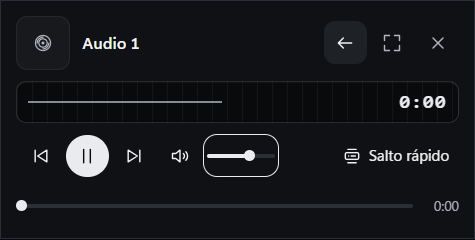
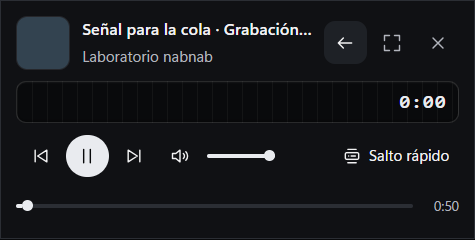
Fix floating player restore

diff --git a/src/main.ts b/src/main.ts
@@ -159,7 +159,7 @@ const audioPlayer=createAudioPlayer({
   item: id => snapshot.library.find(item => item.id === id),
   command, render: renderCurrent, refresh, showError, t,
   fullscreen: enabled => getCurrentWindow().setFullscreen(enabled),
-  miniWindow: desktop ? action => command("playback_mini_window", {action}) : undefined,
+  miniWindow: desktop ? (action,onlyWhenMinimized) => command("playback_mini_window", {action,onlyWhenMinimized}) : undefined,
   desktopPlayback: desktop ? available => {
     if (available === desktopPlaybackAvailable) return;
     desktopPlaybackAvailable = available;
@@ -945,10 +945,10 @@ if(desktop){
   required('#close').addEventListener('click',()=>void Promise.resolve(audioPlayer.persist()).then(()=>nativeWindow.close()).catch(showError));
   const updateMaximize=async()=>{const maximized=await nativeWindow.isMaximized();const button=required('#maximize');button.dataset.maximized=String(maximized);const label=maximized?t("Restaurar", "Restore"):t("Maximizar", "Maximize");button.setAttribute('aria-label',label);button.title=label;};
   try{
-    await listen('playback-mini-restored',audioPlayer.nativeMiniRestored);
+    await listen<boolean>('playback-mini-restored',({payload})=>audioPlayer.nativeMiniRestored(payload),{target:{kind:"Webview",label:"main"}});
     await listen('playback-mini-open',audioPlayer.openFloatingMini,{target:{kind:"Webview",label:"main"}});
     await listen<WheelAction>('quick-skip-action',({payload})=>audioPlayer.wheelAction(payload),{target:{kind:"Webview",label:"main"}});
-    await nativeWindow.onResized(async()=>{if(await nativeWindow.isMinimized())audioPlayer.detachMini();await updateMaximize();});
+    await nativeWindow.onResized(async()=>{if(await nativeWindow.isMinimized())audioPlayer.detachMini(true);await updateMaximize();});
     await updateMaximize();
     await nativeWindow.onDragDropEvent(event=>{if(event.payload.type==='drop')void receivePaths(event.payload.paths).catch(showError);else required('#drop-indicator').hidden=event.payload.type!=='enter'&&event.payload.type!=='over';});
     await listen<CaptureStatus>('capture-update',({payload})=>{const previous=captureStatus?.phase;screenCapture.acceptStatus(payload);if(page==='tools'&&localToolModule==='screenCapture'&&(captureIsActive(payload)||previous!==payload.phase))renderCurrent();if(previous!==payload.phase&&(payload.phase==='interrupted'||payload.phase==='error')){notify(payload.readyCapture?t('La captura se interrumpió. Revisa el archivo parcial en Captura.','Capture was interrupted. Review the partial file in Capture.'):t('No se pudo continuar la captura. Revisa Captura.','Capture could not continue. Review Capture.'),'error',payload.reason??'');if(page==='tools'&&localToolModule==='screenCapture')void screenCapture.open().catch(showError);}});

diff --git a/src/audio-player.ts b/src/audio-player.ts
@@ -27,7 +27,7 @@ interface Hooks {
   windowVisible(): Promise<boolean>;
   refresh(): Promise<void>;
   fullscreen(enabled: boolean): Promise<void>;
-  miniWindow?(action: "detach-audio" | "detach-video" | "restore" | "focus" | "drag" | "resize-audio" | "resize-video"): Promise<void>;
+  miniWindow?(action: "detach-audio" | "detach-video" | "restore" | "focus" | "drag" | "resize-audio" | "resize-video", onlyWhenMinimized?: boolean): Promise<boolean>;
   desktopPlayback?(available: boolean): void;
   desktopWheel?(session: WheelSession | null): void;
   convert(id: string): void;
@@ -210,14 +210,16 @@ export function createAudioPlayer(hooks: Hooks) {
     finally { changingWindow = false; }
   }
 
-  function detachMini(): boolean {
+  function detachMini(onlyWhenMinimized = false): boolean {
     const item = current();
     if (!mini?.active() || !isPlayable(item) || !hooks.miniWindow) return false;
     if (changingWindow || detached) return true;
     changingWindow = true;
     trackWheel?.dismiss();
     setDetached(true);
-    void hooks.miniWindow(item.kind === "video" ? "detach-video" : "detach-audio").catch(error => {
+    void hooks.miniWindow(item.kind === "video" ? "detach-video" : "detach-audio", onlyWhenMinimized).then(moved => {
+      if (moved === false) setDetached(false);
+    }).catch(error => {
       setDetached(false);
       hooks.showError(error);
     }).finally(() => { changingWindow = false; });
@@ -1040,7 +1042,8 @@ export function createAudioPlayer(hooks: Hooks) {
   }
 
   return { mount, render, restore, play, playAt, add, remove, input, click, key, current, nextEntries, seek, persist, detachMini, openFloatingMini,
-    nativeMiniRestored: () => setDetached(false), syncDesktopWheel, wheelAction, isExpanded: () => expanded, isDetached: () => detached,
+    nativeMiniRestored: (dock: boolean) => { setDetached(false); if (dock) dockMini(); },
+    syncDesktopWheel, wheelAction, isExpanded: () => expanded, isDetached: () => detached,
     timeFor: (id: string) => id === currentId() && matchesSource() && media?.readyState ? media.currentTime : undefined,
     time: () => media?.currentTime ?? 0 };
 }

diff --git a/src/mini-player.css b/src/mini-player.css
@@ -20,11 +20,12 @@
   background: #050607;
   cursor: pointer;
 }
-.mini-player { display: grid; gap: 6px; padding: 10px 12px 8px; }
+.mini-player { display: grid; grid-template-columns: minmax(0, 1fr); gap: 6px; padding: 10px 12px 8px; }
 .mini-header, .mini-identity, .mini-window, .mini-controls { display: flex; align-items: center; }
 .mini-header { gap: 8px; justify-content: space-between; }
-.mini-identity { gap: 10px; min-width: 0; }
+.mini-identity { flex: 1; gap: 10px; min-width: 0; }
 .mini-identity > div { min-width: 0; }
+.mini-art, .mini-window { flex: none; }
 .mini-art .audio-cover { width: 43px; border-radius: 9px; }
 .mini-identity strong, .mini-identity small, .track-wheel-copy :is(strong, small) {
   display: block;

diff --git a/src-tauri/src/playback_mini.rs b/src-tauri/src/playback_mini.rs
@@ -1,10 +1,27 @@
+use std::cell::Cell;
 use tauri::{
-    AppHandle, Emitter, LogicalSize, Manager, PhysicalPosition, Webview, WindowBuilder, WindowEvent,
+    AppHandle, Emitter, EventTarget, LogicalSize, Manager, PhysicalPosition, Rect, Webview,
+    WindowBuilder, WindowEvent,
 };
 
 const MAIN: &str = "main";
 const MINI: &str = "playback-mini";
 const MINI_WIDTH: f64 = 380.;
+
+thread_local! {
+    static SWAPPING: Cell<bool> = const { Cell::new(false) };
+}
+
+fn swap(work: impl FnOnce() -> tauri::Result<()>) -> tauri::Result<bool> {
+    SWAPPING.with(|active| {
+        if active.replace(true) {
+            return Ok(false);
+        }
+        let result = work();
+        active.set(false);
+        result.map(|()| true)
+    })
+}
 
 #[derive(serde::Deserialize)]
 #[serde(rename_all = "kebab-case")]
@@ -90,13 +107,13 @@ fn detach(app: &AppHandle, video: bool) -> tauri::Result<()> {
         .and_then(|()| mini.show())
         .and_then(|()| mini.set_focus())
     {
-        let _ = restore(app);
+        let _ = restore(app, false);
         return Err(error);
     }
     Ok(())
 }
 
-fn restore(app: &AppHandle) -> tauri::Result<()> {
+fn restore(app: &AppHandle, dock: bool) -> tauri::Result<()> {
     let Some(view) = app.get_webview(MAIN) else {
         return Err(tauri::Error::WebviewNotFound);
     };
@@ -107,13 +124,21 @@ fn restore(app: &AppHandle) -> tauri::Result<()> {
     let Some(main) = app.get_window(MAIN) else {
         return Err(tauri::Error::WindowNotFound);
     };
-    main.show()?;
-    main.unminimize()?;
+    // Attach the view before showing the main host, whose resize events must reach it.
     view.reparent(&main)?;
-    mini.destroy()?;
+    let show = main.unminimize().and_then(|()| main.show()).and_then(|()| {
+        view.set_bounds(Rect {
+            position: PhysicalPosition::new(0, 0).into(),
+            size: main.inner_size()?.into(),
+        })?;
+        view.show()
+    });
+    let close = mini.destroy();
+    app.emit_to(EventTarget::webview(MAIN), "playback-mini-restored", dock)?;
+    show?;
+    close?;
     main.set_focus()?;
-    app.emit("playback-mini-restored", ())?;
-    Ok(())
+    view.set_focus()
 }
 
 #[tauri::command]
@@ -121,7 +146,8 @@ pub async fn playback_mini_window(
     app: AppHandle,
     webview: Webview,
     action: Action,
-) -> Result<(), String> {
+    only_when_minimized: Option<bool>,
+) -> Result<bool, String> {
     if webview.label() != MAIN {
         return Err("Only the nabnab playback view can control this window.".into());
     }
@@ -131,15 +157,19 @@ pub async fn playback_mini_window(
         let host = webview.window();
         let result = match action {
             Action::DetachAudio | Action::DetachVideo => {
-                detach(&task, matches!(action, Action::DetachVideo))
+                if only_when_minimized == Some(true) && !host.is_minimized().unwrap_or(false) {
+                    Ok(false)
+                } else {
+                    swap(|| detach(&task, matches!(action, Action::DetachVideo)))
+                }
             }
-            Action::Restore => restore(&task),
-            Action::Focus if host.label() == MINI => host.set_focus(),
-            Action::Drag if host.label() == MINI => host.start_dragging(),
+            Action::Restore => swap(|| restore(&task, false)),
+            Action::Focus if host.label() == MINI => host.set_focus().map(|()| true),
+            Action::Drag if host.label() == MINI => host.start_dragging().map(|()| true),
             Action::ResizeAudio | Action::ResizeVideo if host.label() == MINI => {
-                resize(&host, matches!(action, Action::ResizeVideo))
+                resize(&host, matches!(action, Action::ResizeVideo)).map(|()| true)
             }
-            _ => Ok(()),
+            _ => Ok(false),
         };
         let _ = send.send(result.map_err(|error| error.to_string()));
     })
@@ -155,13 +185,22 @@ pub fn window_event(app: &AppHandle, label: &str, event: &WindowEvent) {
             api.prevent_close();
             let app = app.clone();
             let _ = app.clone().run_on_main_thread(move || {
-                let _ = restore(&app);
+                let _ = swap(|| restore(&app, true));
             });
         }
-        (MAIN, WindowEvent::Focused(true)) if app.get_window(MINI).is_some() => {
+        (MAIN, WindowEvent::Focused(true) | WindowEvent::Resized(_))
+            if app.get_window(MINI).is_some() =>
+        {
             let app = app.clone();
             let _ = app.clone().run_on_main_thread(move || {
-                let _ = restore(&app);
+                let _ = swap(|| {
+                    if app.get_window(MAIN).is_some_and(|main| {
+                        main.is_visible().unwrap_or(false) && !main.is_minimized().unwrap_or(true)
+                    }) {
+                        restore(&app, true)?;
+                    }
+                    Ok(())
+                });
             });
         }
         (MAIN, WindowEvent::Destroyed) => {

diff --git a/docs/playback.md b/docs/playback.md
@@ -6,7 +6,7 @@ El vídeo abre una vista de borde a borde con ajuste de proporción, subtítulos
 
 Abre el **minirreproductor** desde la barra o la vista grande. Se queda en una esquina mientras navegas por nabnab. El vídeo conserva la imagen y los controles básicos. El audio reúne portada, título, volumen y tiempo con una onda dibujada con la señal real de reproducción. [Referencia del mini de audio](https://spotifast.rocks/winamp/)
 
-Pulsa **Sacar a una ventana** o minimiza nabnab con el mini abierto. La ventana flotante se queda sobre el escritorio y puedes arrastrarla desde el título de la pista. Al volver a nabnab, el mismo WebView2 conserva el archivo, la posición y la cola.
+Pulsa **Sacar a una ventana** o minimiza nabnab con el mini abierto. La ventana flotante se queda sobre el escritorio y puedes arrastrarla desde el título de la pista. Al volver desde la barra de tareas, el reproductor regresa a la barra compacta. El mismo WebView2 conserva el archivo, la posición y la cola. Los títulos largos se muestran con puntos suspensivos y puedes leerlos completos al colocar el puntero encima.
 
 En Windows, pulsa **Ctrl + Mayús + M** para abrir el mini de audio o vídeo con un archivo cargado, aunque nabnab esté minimizado. Si el mini ya está flotando, el atajo le da el foco. Con **Ajustes → General → Mostrar icono en la bandeja** activado, también puedes elegir **Abrir minirreproductor** en el menú del icono junto al reloj.
 
@@ -58,6 +58,8 @@ Con `NABNAB_PLAYBACK_DESKTOP_GESTURE=1`, la prueba usa la rueda y el teclado de 
 Con `NABNAB_PLAYBACK_DESKTOP_TRAY=1`, abre el menú nativo de bandeja con audio y vídeo en reproducción. Comprueba que el mini aparece con la ventana principal minimizada, que conserva el mismo elemento multimedia y que el menú desactiva la acción cuando se cierra la sesión.
 
 Con `NABNAB_PLAYBACK_DESKTOP_MINI_KEY=1` y la bandeja desactivada, envía **Ctrl + Mayús + M** desde Windows y comprueba el mismo recorrido para audio y vídeo.
+
+Con `NABNAB_PLAYBACK_DESKTOP_RESTORE=1`, la prueba usa un MP3 con un título largo y restaura dos veces la ventana principal maximizada con el comando nativo de Windows. Comprueba que todos los controles del mini queden a la vista, que la interfaz y la barra compacta vuelvan y que una solicitud de minimizar obsoleta no vuelva a separar la ventana.
 
 Con `NABNAB_PLAYBACK_WINDOWS_MEDIA=1`, la prueba busca la sesión multimedia de los archivos de prueba y verifica la carátula, la pausa, la reanudación, la búsqueda y los saltos de pista con la ventana minimizada. [Controles multimedia de Windows](https://learn.microsoft.com/en-us/uwp/api/windows.media.control.globalsystemmediatransportcontrolssession)
 
